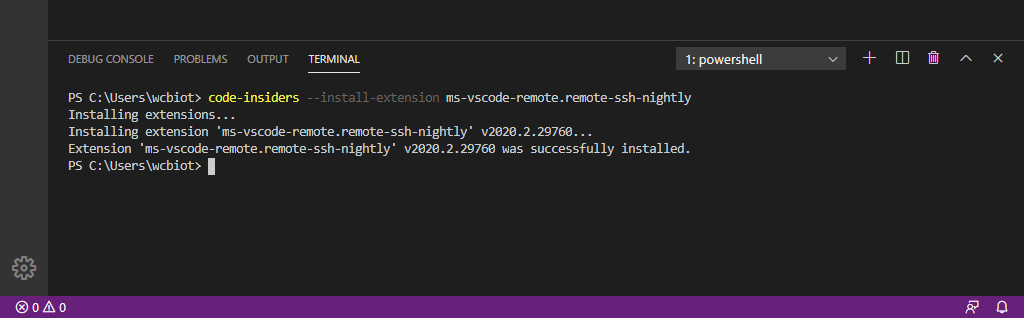
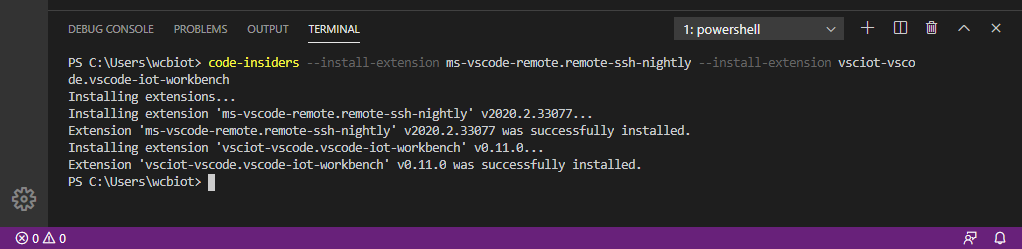
Update Prep Doc

diff --git a/lab02/IoT-PnP-Prep.md b/lab02/IoT-PnP-Prep.md
@@ -1,20 +1,5 @@
 # Prep for IoT PnP
 
-Do this before the training
-
-1. Flash SD Card with Raspbian Buster  
-  2020-02-13-raspbian-buster-lite.zip
-1. Add a empty file called `ssh` file to `boot` partition
-1. Boot RP4 with the SD Card
-1. Run :
-
-```bash
-$REMOTEHOST="pi@[RP4 IP Address]"
-ssh "$REMOTEHOST" 
-
-```
-
-
 ## Requirements
 
 - Windows 10 or Windows Server 2019 1809 or above
@@ -31,33 +16,29 @@ ssh "$REMOTEHOST"
 
     ```powershell
     Add-WindowsCapability -Online -Name OpenSSH.Client~~~~0.0.1.0
-    Add-WindowsCapability -Online -Name OpenSSH.Server~~~~0.0.1.0
     ```
-    
+
     Example :
-    
+
     ```powershell
     PS C:\> Add-WindowsCapability -Online -Name OpenSSH.Client~~~~0.0.1.0
-    
-    Path          :
-    Online        : True
-    RestartNeeded : False
-    
-    PS C:\> Add-WindowsCapability -Online -Name OpenSSH.Server~~~~0.0.1.0
-    
+
     Path          :
     Online        : True
     RestartNeeded : False
     ```
 
-## Setup Visual Studio Code + Remote-SSH
+## VSCode Extensions
 
-### Install [Remote SSH (Nightly)](https://marketplace.visualstudio.com/items?itemName=ms-vscode-remote.remote-ssh-nightly) extension  
+We will use several extensions.  Please install following extensions.
 
 > [!TIP]  
 > If you already have Production version of (Not Insiders) Visual Studio installed, please make sure you install the extension to Visual Studio Insiders Edition  
 > The Insiders edition has Green Icon while production version has blue icon  
 > ![VSCode-icons](media/vscode-icons.png)  
+
+- [Remote SSH (Nightly)](https://marketplace.visualstudio.com/items?itemName=ms-vscode-remote.remote-ssh-nightly)  
+- [Azure IoT Device Workbench](https://marketplace.visualstudio.com/items?itemName=vsciot-vscode.vscode-iot-workbench)
 
 1. Start VSCode Insiders Edition
 1. Open new terminal from [Terminal] Menu -> `New Terminal`  
@@ -65,10 +46,10 @@ ssh "$REMOTEHOST"
     You will see new terminal window in the bottom of screen
     ![vscode-10](media/vscode-10.png)
 
-1. From the Terminal Window, install `Remote-SSH` with :  
+1. From the Terminal Window, install extensions with :  
 
     ```bash
-    code-insiders --install-extension ms-vscode-remote.remote-ssh-nightly
+    code-insiders --install-extension ms-vscode-remote.remote-ssh-nightly --install-extension vsciot-vscode.vscode-iot-workbench
     ```
 
     ![vscode-11](media/vscode-11.png)
@@ -79,13 +60,13 @@ ssh "$REMOTEHOST"
 
     ![vscode-13](media/vscode-13.png)
 
-1. Verify Remote-SSH extension is installed in `Extensions` pane  
+1. Verify extensions are installed in `Extensions` pane  
 
     ![vscode-14](media/vscode-14.png)
 
 ### Set up SSH Key
 
-THis is optional but highly recommended so you do not have to enter passwords repeatedly
+This is optional but highly recommended so you do not have to enter passwords repeatedly
 
 1. Generate SSH Key from VSCode terminal window with :
 
